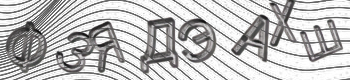
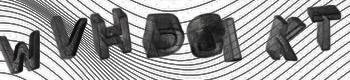
final_project_1

diff --git a/main.py b/main.py
@@ -8,14 +8,13 @@ from PIL import Image, ImageOps
 def generate_word():
     # генерация текстовой составляющей и расстановка букв
     result = ''
-    words = ['А', 'Б', 'В', 'Г', 'Д', 'Е', 'Ж', 'З', 'И', 'Й', 'К', 'Л', 'М', 'Н',
-             'П', 'Р', 'С', 'Т', 'У', 'Ф', 'Х', 'Ц', 'Ч', 'Ш', 'Щ', 'Э', 'Ю', 'Я', 'Ё']
+    words = [chr(i) for i in range(ord('A'), ord('Z') + 1)]
     angles = [0, -2, -4, -7, -10, -15, -20, -25]
     for i in range(8):
         word = words[randint(0, len(words) - 1)]
         words.remove(word)
         result += word
-        file_path = f'cyrillic_alphabet/{word}.blend'
+        file_path = f'latin_alphabet/{word}.blend'
         inner_path = 'Object'
         object_name = word
         bpy.ops.wm.append(
@@ -24,7 +23,9 @@ def generate_word():
             filename=object_name
         )
         z_pos = float(f"0.{randint(0, 10)}")
-        bpy.data.objects[word].location = (0.7 * i, 1.9 * i - 10, 2.5 + z_pos)bpy.data.objects[word].rotation_euler[0] = bpy.data.objects[word].rotation_euler[0] + math.radians(randint(-10, 10))
+        bpy.data.objects[word].location = (0.7 * i, 1.9 * i - 10, 2.5 + z_pos)
+        # bpy.data.objects[word].rotation_euler = (0, math.radians(randint(-40, 40)), math.radians(angles[i]) + math.radians(randint(-10, 10)))
+        bpy.data.objects[word].rotation_euler[0] = bpy.data.objects[word].rotation_euler[0] + math.radians(randint(-10, 10))
         bpy.data.objects[word].rotation_euler[1] = bpy.data.objects[word].rotation_euler[1] + math.radians(randint(-40, 40))
         bpy.data.objects[word].rotation_euler[2] = bpy.data.objects[word].rotation_euler[2] + math.radians(angles[i]) + math.radians(randint(-5, 5))
     return result

diff --git a/resources/transport.py b/resources/transport.py
@@ -1,11 +1,11 @@
 import os
 
 files_we_need = []
-files = os.listdir('/home/petya/Downloads/blender/glass_russian_alphabet_1/')
+files = os.listdir('/home/petya/Downloads/rus_alpha_5/')
 for file in files:
     if file.endswith('.blend'):
         files_we_need.append(file)
         print(file[:-1])
-        os.system(f'cp /home/petya/Downloads/blender/glass_russian_alphabet_1/{file} '
-                  f'/home/petya/PycharmProjects/glass-captcha/cyrillic_alphabet/{file}')
+        os.system(f'cp /home/petya/Downloads/rus_alpha_5/{file} '
+                  f'/home/petya/Downloads/rus_alpha_6/{file}')
 print(sorted(files_we_need))

diff --git a/resources/cyrillic_list_generator.py b/resources/cyrillic_list_generator.py
@@ -1,9 +1,4 @@
-print(ord('А'), ord('Я'))
-alphabet = [chr(i) for i in range(ord('А'), ord('Я') + 1)]
-alphabet.append('Ё')
-alphabet.remove('О')
-alphabet.remove('Ъ')
-alphabet.remove('Ы')
-alphabet.remove('Ь')
+alphabet = [chr(i) for i in range(ord('A'), ord('Z') + 1)]
+alphabet.remove('O')
 print(len(alphabet))
 print(alphabet)
